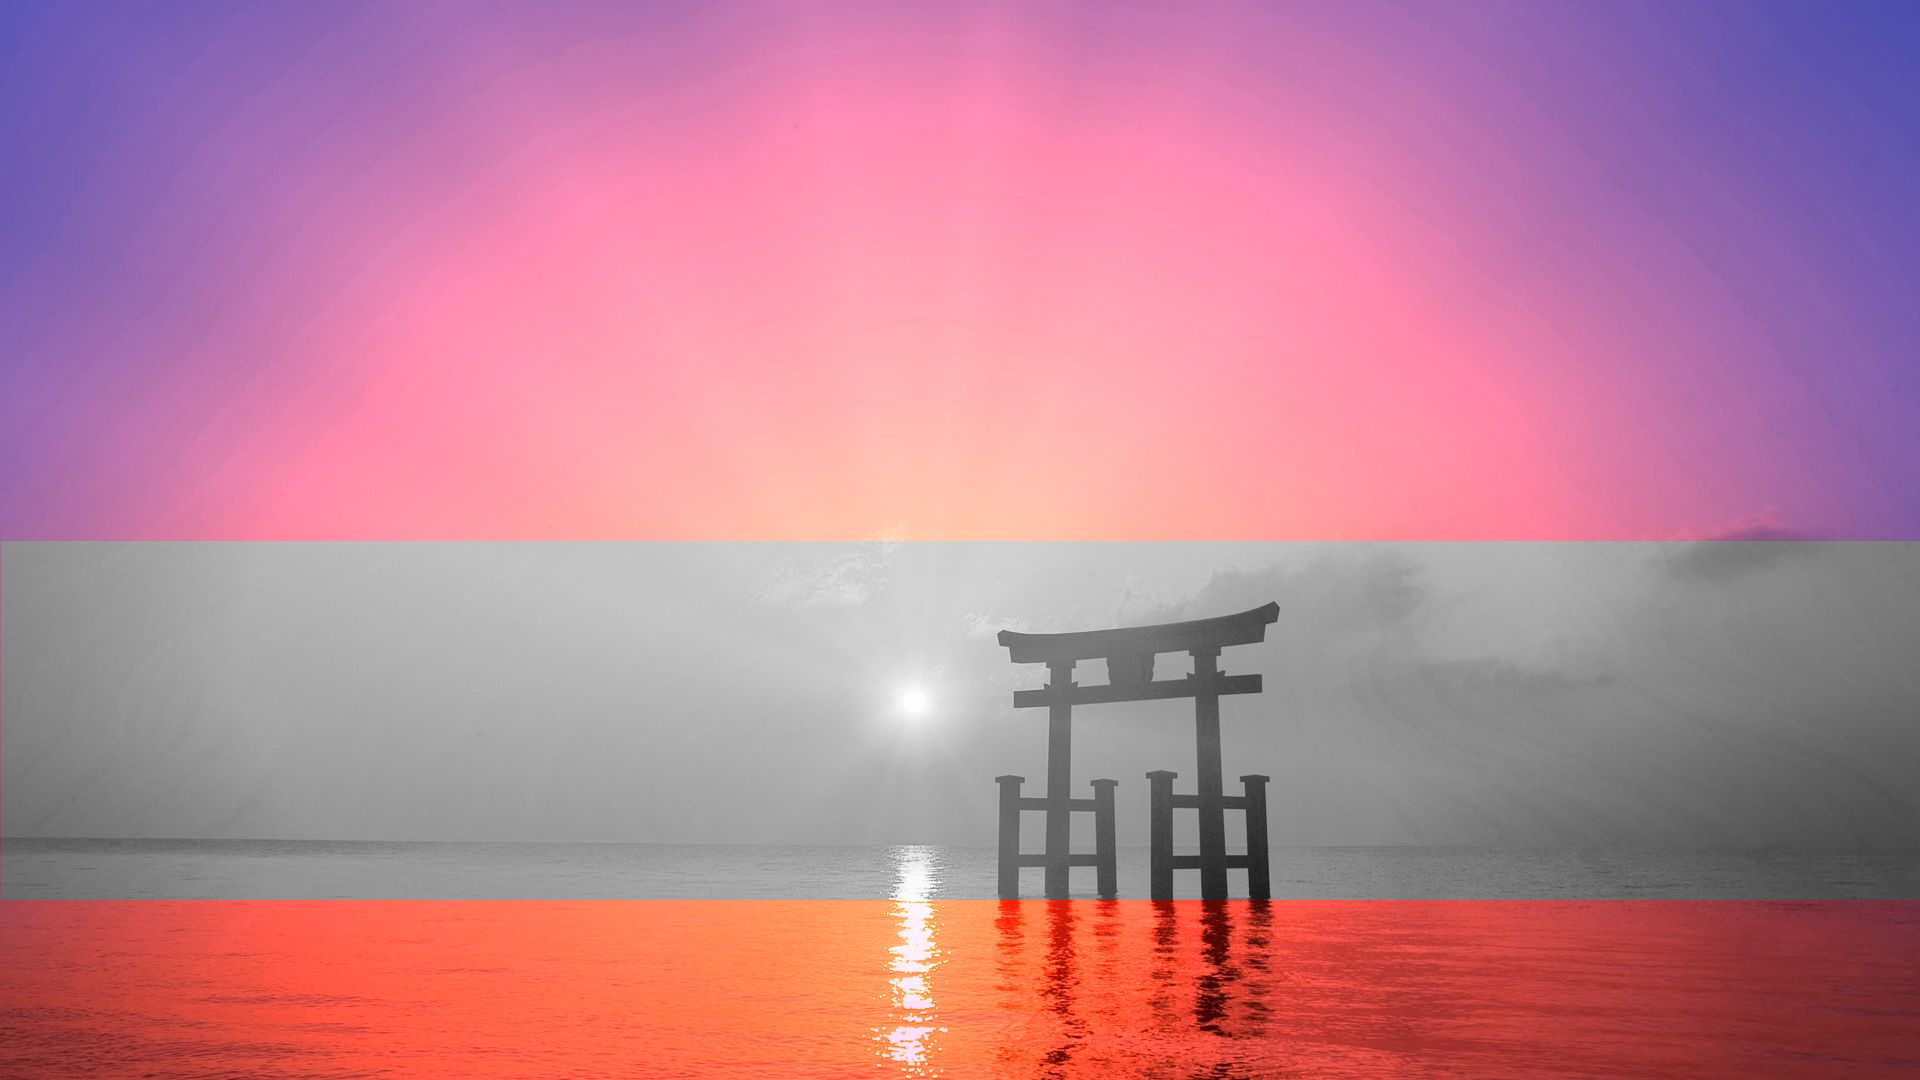
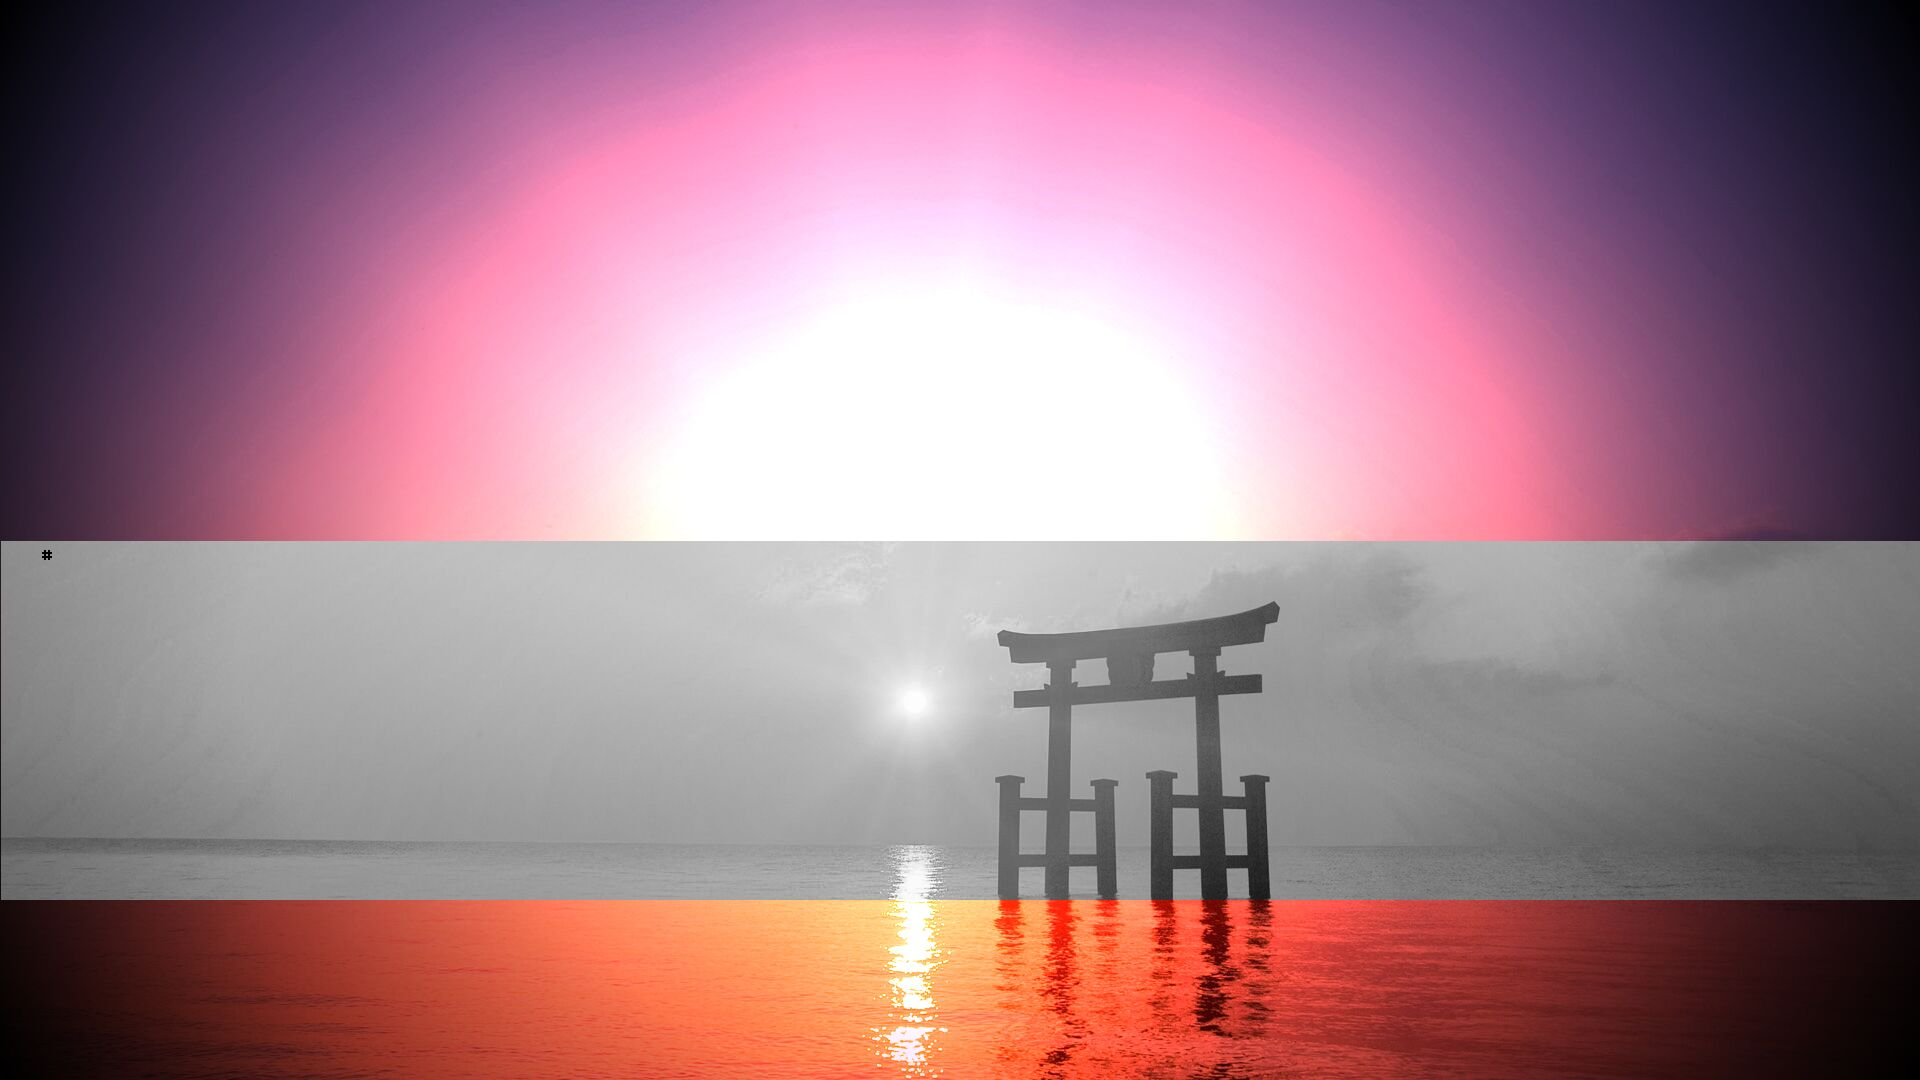
finished up code, made adjustments to filter 3 to allow functionality and polished.

diff --git a/filter3.cc b/filter3.cc
@@ -11,10 +11,10 @@ const int RED = 0, GREEN = 1, BLUE = 2;
 
 //YOU: Write your own filter here - delete the demo code or modify it to suit your purposes
 //void filter3(vector<vector<vector<int>>> &vec) {}
-void filter3(vector<vector<vector<int>>> &vec, vector<vector<vector<int>>> &vec2) {
-    size_t rows = vec.size() < vec2.size() ? vec.size() : vec2.size();
+void filter3(vector<vector<vector<int>>> &vec) {
+    size_t rows = vec.size();
     if (!rows) exit(1);
-    size_t cols = vec.at(0).size() < vec2.at(0).size() ? vec.at(0).size() : vec2.at(0).size();
+    size_t cols = vec.at(0).size();
     if (!cols) exit(1);
     size_t colors = vec.at(0).at(0).size();
     if (!colors) exit(1);
@@ -25,8 +25,8 @@ void filter3(vector<vector<vector<int>>> &vec, vector<vector<vector<int>>> &vec2
 //  make_rect(vec, 20, 80, 100, 100);
 
     //Do the image filtering on every row and column in this image...
-    for (int i = 60; i < 80; i++) {           //watermark middle
-        for (int j = 60; j < 80; j++) {
+    for (int i = 1880; i < 1900; i++) {           //watermark middle
+        for (int j = 560; j < 580; j++) {
 
         vec.at(i).at(j).at(RED) =0;
         vec.at(i).at(j).at(GREEN)=0;
@@ -34,8 +34,8 @@ void filter3(vector<vector<vector<int>>> &vec, vector<vector<vector<int>>> &vec2
     }
     }
 
-    for (int i = 60; i < 80; i++) {           // watermark middle bottom
-        for (int j = 82; j < 86; j++) {
+    for (int i = 1880; i < 1900; i++) {           // watermark middle bottom
+        for (int j = 582; j < 586; j++) {
 
         vec.at(i).at(j).at(RED) =0;
         vec.at(i).at(j).at(GREEN)=0;
@@ -43,8 +43,8 @@ void filter3(vector<vector<vector<int>>> &vec, vector<vector<vector<int>>> &vec2
     }
     }
 
-for (int i = 60; i < 80; i++) {           // middle top
-        for (int j = 54; j < 58; j++) {
+for (int i = 1880; i < 1900; i++) {           // middle top
+        for (int j = 554; j < 558; j++) {
 
         vec.at(i).at(j).at(RED) =0;
         vec.at(i).at(j).at(GREEN)=0;
@@ -52,8 +52,8 @@ for (int i = 60; i < 80; i++) {           // middle top
     }
     }
 
-    for (int i = 82; i < 86; i++) {           //  mid right
-        for (int j = 60; j < 80; j++) {
+    for (int i = 1902; i < 1906; i++) {           //  mid right
+        for (int j = 560; j < 580; j++) {
 
         vec.at(i).at(j).at(RED) =0;
         vec.at(i).at(j).at(GREEN)=0;
@@ -61,25 +61,16 @@ for (int i = 60; i < 80; i++) {           // middle top
     }
     }
 
- for (int i = 54; i < 58; i++) {           //  mid left
-        for (int j = 60; j < 80; j++) {
+ for (int i = 1874; i < 1878; i++) {           //  mid left
+        for (int j = 560; j < 580; j++) {
 
         vec.at(i).at(j).at(RED) =0;
         vec.at(i).at(j).at(GREEN)=0;
         vec.at(i).at(j).at(BLUE) =0;
     }
     }
-        for (int i = 54; i < 58; i++) {           //   left bottom
-        for (int j = 82; j < 86; j++) {
-
-        vec.at(i).at(j).at(RED) =0;
-        vec.at(i).at(j).at(GREEN)=0;
-        vec.at(i).at(j).at(BLUE) =0;
-    }
-    }
-
-for (int i = 54; i < 58; i++) {           //   left top
-        for (int j = 54; j < 58; j++) {
+        for (int i = 1874; i < 1878; i++) {           //   left bottom
+        for (int j = 582; j < 586; j++) {
 
         vec.at(i).at(j).at(RED) =0;
         vec.at(i).at(j).at(GREEN)=0;
@@ -87,8 +78,8 @@ for (int i = 54; i < 58; i++) {           //   left top
     }
     }
 
-for (int i = 82; i < 86; i++) {           //   right bottom
-        for (int j = 82; j < 86; j++) {
+for (int i = 1874; i < 1878; i++) {           //   left top
+        for (int j = 554; j < 558; j++) {
 
         vec.at(i).at(j).at(RED) =0;
         vec.at(i).at(j).at(GREEN)=0;
@@ -96,8 +87,17 @@ for (int i = 82; i < 86; i++) {           //   right bottom
     }
     }
 
-for (int i = 82; i < 86; i++) {           //   right top
-        for (int j = 54; j < 58; j++) {
+for (int i = 1902; i < 1906; i++) {           //   right bottom
+        for (int j = 582; j < 586; j++) {
+
+        vec.at(i).at(j).at(RED) =0;
+        vec.at(i).at(j).at(GREEN)=0;
+        vec.at(i).at(j).at(BLUE) =0;
+    }
+    }
+
+for (int i = 1902; i < 1906; i++) {           //   right top
+        for (int j = 554; j < 558; j++) {
 
         vec.at(i).at(j).at(RED) =0;
         vec.at(i).at(j).at(GREEN)=0;
@@ -107,7 +107,7 @@ for (int i = 82; i < 86; i++) {           //   right top
 
 //message
 for (int i = 54; i < 56; i++) {           //   h
-    for(int j=500;  j<510; j++) {
+    for(int j=550;  j<560; j++) {
         vec.at(i).at(j).at(RED) =0;
         vec.at(i).at(j).at(GREEN)=0;
         vec.at(i).at(j).at(BLUE) =0;
@@ -115,7 +115,7 @@ for (int i = 54; i < 56; i++) {           //   h
     }
 }
 for (int i = 58; i < 60; i++) {           //   h
-    for(int j=500;  j<510; j++) {
+    for(int j=550;  j<560; j++) {
         vec.at(i).at(j).at(RED) =0;
         vec.at(i).at(j).at(GREEN)=0;
         vec.at(i).at(j).at(BLUE) =0;
@@ -124,7 +124,7 @@ for (int i = 58; i < 60; i++) {           //   h
 }
 
 for (int i = 54; i < 58; i++) {           //   h
-    for(int j=504;  j<506; j++) {
+    for(int j=554;  j<556; j++) {
         vec.at(i).at(j).at(RED) =0;
         vec.at(i).at(j).at(GREEN)=0;
         vec.at(i).at(j).at(BLUE) =0;
@@ -133,7 +133,7 @@ for (int i = 54; i < 58; i++) {           //   h
 
 
     for (int i = 62; i < 64; i++) {           //   s
-    for(int j=500;  j<510; j++) {
+    for(int j=550;  j<560; j++) {
         vec.at(i).at(j).at(RED) =0;
         vec.at(i).at(j).at(GREEN)=0;
         vec.at(i).at(j).at(BLUE) =0;

diff --git a/filter2.cc b/filter2.cc
@@ -1,4 +1,4 @@
-//Student 2 Name:
+//Student 2 Name:Spencer Ha
 #include <vector>
 #include <iostream>
 #include <iomanip>
@@ -16,18 +16,18 @@ void filter2(vector<vector<vector<int>>> &vec) {
 	size_t colors = vec.at(0).at(0).size();
 	if (!colors) exit(1);
 
-	for (int i = 0; i < rows; i++) {
+	for (int i = 0; i < rows; i++) { 
 		for (int j = 0; j < cols; j++) {
-			int r = vec.at(i).at(j).at(RED); //Bounds check with .at the first time
-            int g = vec[i][j][GREEN]; //Skip bounds check for speed
+			int r = vec.at(i).at(j).at(RED);
+            int g = vec[i][j][GREEN]; 
             int b = vec[i][j][BLUE];
-		/*	const double diag_length = hypot(rows/2,0,cols/2.0);
+			const double diag_length = hypot(rows/2,0,cols/2.0);
 			double distance = hypot(i-(rows/2.0),j-(cols/2.0));
 			double brightness = 2 - 2*(distance/diag_length);
-			for (int k = 0; k < colors; k++) {
+			for (int k = 0; k < colors; k++) { // Demo Vignette
 				vec.at(i).at(j).at(k) *= brightness;
-			} */
-			if (i > rows/2000 and i < (3*rows/2) and j > cols/2 and j < (2.5*cols/3)) {
+			} 
+			if (i > rows/2000 and i < (3*rows/2) and j > cols/2 and j < (2.5*cols/3)) { // Greyscale rectangle across the middle of the image
 				int avg = (r+g+b)/3;
 				vec.at(i).at(j).at(RED) = avg;
 				vec.at(i).at(j).at(GREEN) = avg;
@@ -35,6 +35,34 @@ void filter2(vector<vector<vector<int>>> &vec) {
 			}
 		}
 	}
+	for (int i = 48; i < 50; i++) { // Adding hashtag to secret message
+    	for(int j=550;  j<560; j++) {
+        	vec.at(i).at(j).at(RED) =0;
+        	vec.at(i).at(j).at(GREEN)=0;
+        	vec.at(i).at(j).at(BLUE) =0;
+		}
+	}
+	for (int i = 44; i < 46; i++) {
+    	for(int j=550;  j<560; j++) {
+        	vec.at(i).at(j).at(RED) =0;
+        	vec.at(i).at(j).at(GREEN)=0;
+        	vec.at(i).at(j).at(BLUE) =0;
+		}
+	}
+	for (int i = 42; i < 52; i++) { 
+    	for(int j=552;  j<554; j++) {
+        	vec.at(i).at(j).at(RED) =0;
+        	vec.at(i).at(j).at(GREEN)=0;
+        	vec.at(i).at(j).at(BLUE) =0;
+    	}
+    }
+	for (int i = 42; i < 52; i++) {     
+    	for(int j=556;  j<558; j++) {
+        	vec.at(i).at(j).at(RED) =0;
+        	vec.at(i).at(j).at(GREEN)=0;
+        	vec.at(i).at(j).at(BLUE) =0;
+    	}
+    }
 }
 
 

diff --git a/main.cc b/main.cc
@@ -1,9 +1,9 @@
 //==================================================================================
 //Write your names here, and explain what each student's code does
-//Student 1 Name:
-//Student 1's Filter Description:
-//Student 2 Name:
-//Student 2's Filter Description:
+//Student 1 Name:Samuel Garnica
+//Student 1's Filter Description:Changed Color Values
+//Student 2 Name:Spencer Ha
+//Student 2's Filter Description:Demo Vignette,Greyscale rectangle across middle of image, Hashtag for Secret Message
 //Student 3 Name:Ayanna Avalos
 //Student 3's Filter Description:Water Mark/ Secret Message
 //==================================================================================
@@ -25,7 +25,7 @@ void filter1(vector<vector<vector<int>>> &vec);
 void filter2(vector<vector<vector<int>>> &vec);
 
 //Student3 will write this in the file filter3.cc, if they exist
-void filter3(vector<vector<vector<int>>> &vec,vector<vector<vector<int>>> &vec2);
+void filter3(vector<vector<vector<int>>> &vec);
 
 //This code must be run with a command line parameter, so print error and quit if they don't run it right
 void usage() {
@@ -117,12 +117,12 @@ int main(int argc, char **argv) {
 
 		//PHASE 4 - Run Student 3's Code
 		   start_time = clock();
-		   filter3(vec,vec2); 
+		   filter3(vec); 
 		   end_time = clock();
 		   cerr << "Filter 3 time: " << double (end_time - start_time) / CLOCKS_PER_SEC << " secs\n";
 		   start_time = clock();
 		   vec_to_image(image,vec,cols,rows); //Copy from the vec to the image object
-		image.save_png("filter3.png"); //Uncomment this for higher quality output
+		//image.save_png("filter3.png"); //Uncomment this for higher quality output
 		image.save_jpeg("filter3.jpg", 80); //Output result after filter 3
 		end_time = clock();
 		cerr << "Time to write filter3.jpg: " << double (end_time - start_time) / CLOCKS_PER_SEC << " secs\n";
